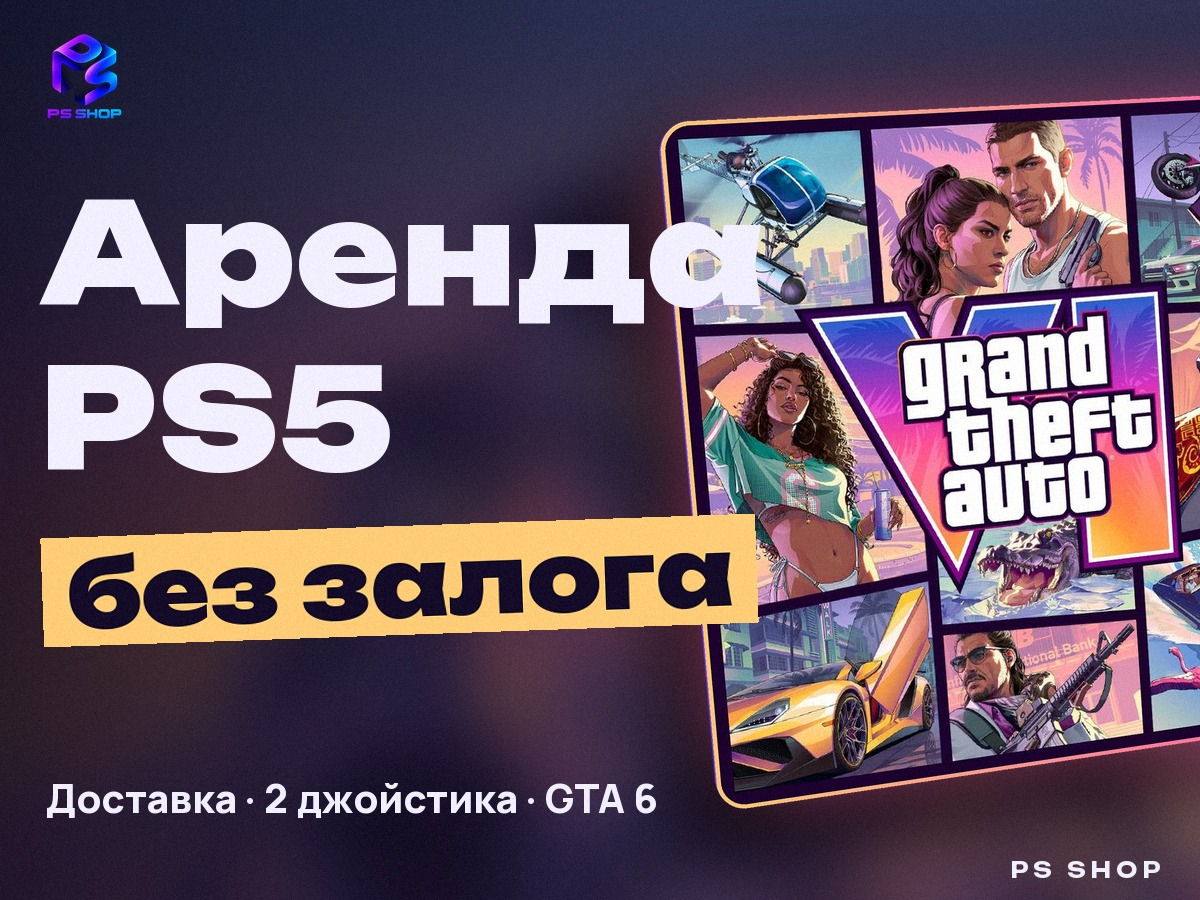
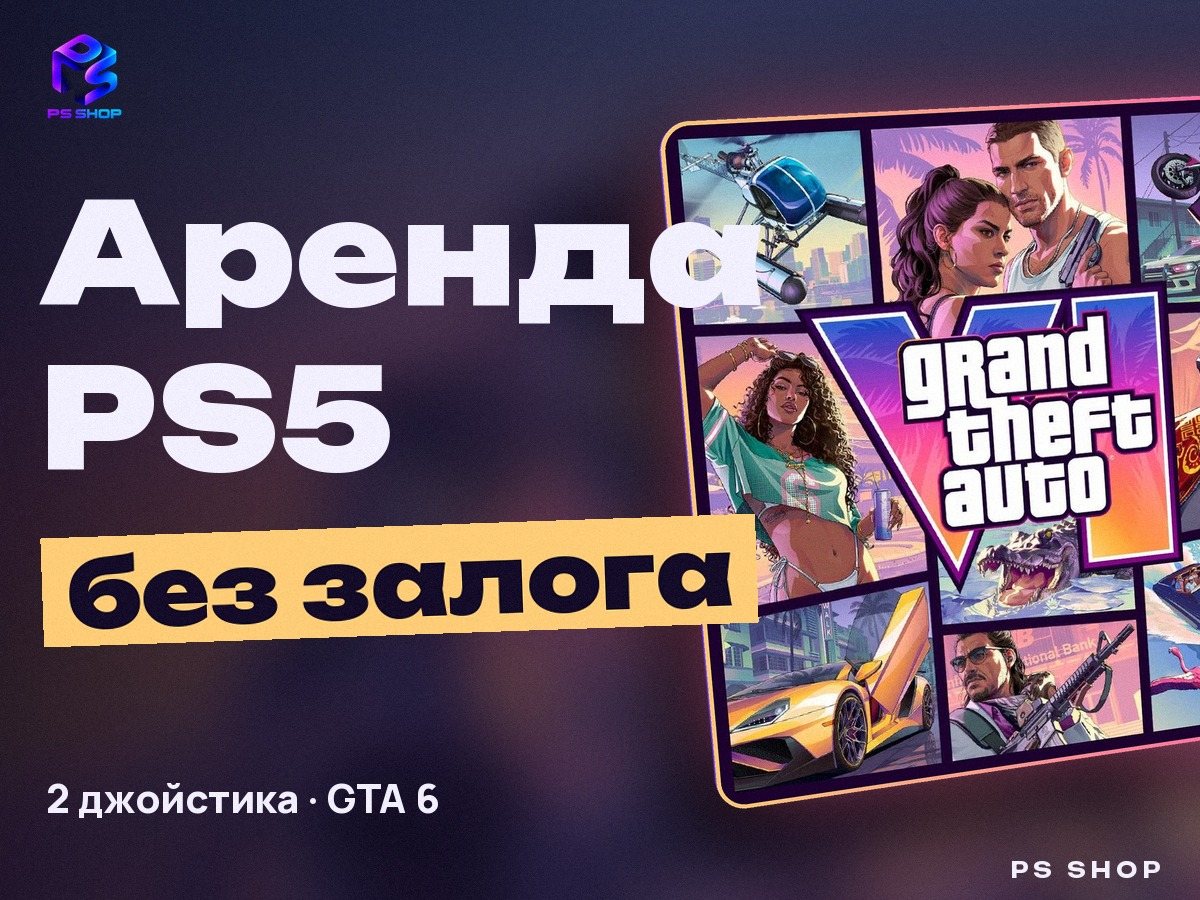
designer: rent cover v2 — remove «доставка» (owner)
Claude-Session: https://claude.ai/code/session_014Ko8owBDWyasHngmZMRm7v

Changed region(s): [[0.0308, 0.8711, 0.555, 0.9022]]

diff --git a/designer/scripts/olx_rent_cover_v2.py b/designer/scripts/olx_rent_cover_v2.py
@@ -2,8 +2,8 @@
 import sys; sys.path.insert(0, "scripts")
 from psfx import *
 W, H = 1200, 900; GOLD, TXT = (255, 205, 120), (242, 239, 255)
-T = {"ru": (["Аренда", "PS5"], "без залога", "Доставка · 2 джойстика · GTA 6"),
-     "uz": (["PS5", "ijara"], "garovsiz", "Yetkazib berish · 2 joystik · GTA 6")}
+T = {"ru": (["Аренда", "PS5"], "без залога", "2 джойстика · GTA 6"),
+     "uz": (["PS5", "ijara"], "garovsiz", "2 joystik · GTA 6")}
 for lg, (head, big2, ben) in T.items():
     art = Image.open("assets/covers/gta6-jason-lucia.jpg").convert("RGB")
     k = max(W / art.width, H / art.height); art = art.resize((int(art.width * k) + 1, int(art.height * k) + 1), Image.LANCZOS)
